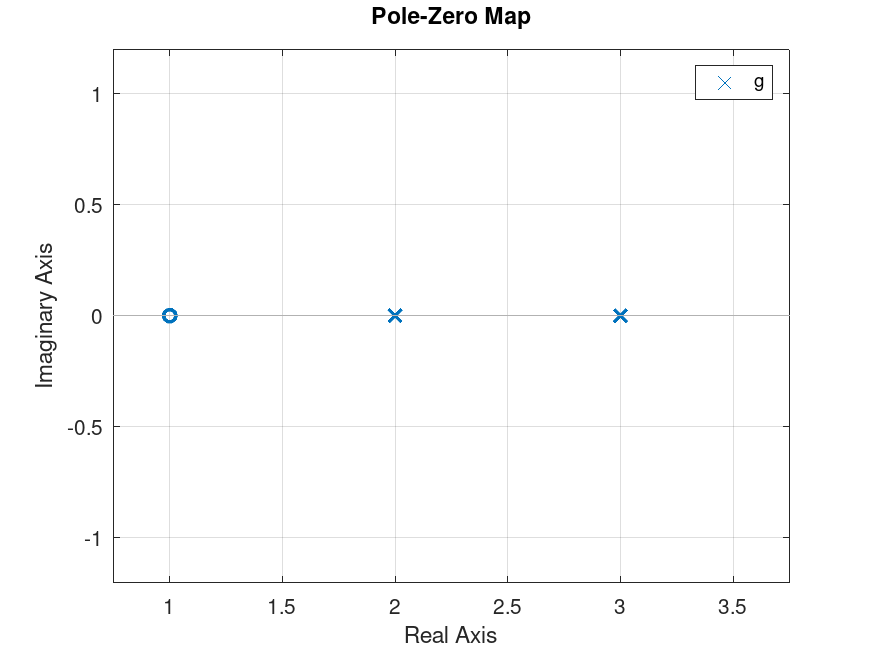
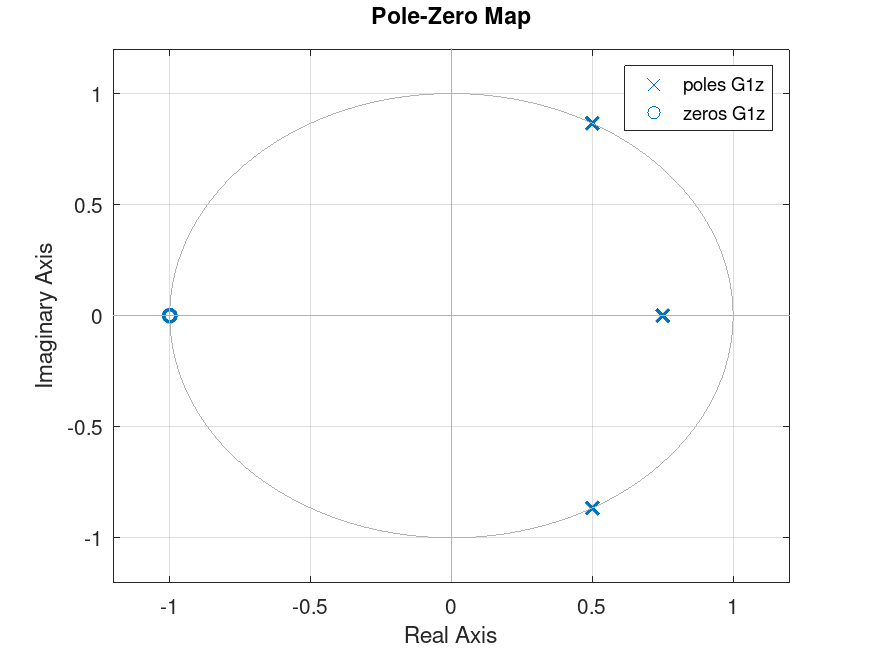
updated docs for version 4.0.1

diff --git a/docs/pzmap.html b/docs/pzmap.html
@@ -78,19 +78,21 @@
 </dl>
 <p> Plot the poles and zeros of an LTI system in the complex plane.
  If no output arguments are given, the result is plotted on the screen.
- Otherwise, the poles and zeros are computed and returned.
+ Otherwise, the poles and zeros are computed and returned. Note that
+ only one system is processed when output arguments are given.
 </p>
 <div class="ms-5">
 <p> <strong>Inputs</strong>
  </p><dl compact="compact">
-<dt> <var>sys</var></dt>
+<dt> <var>sys, sys1, ...</var></dt>
 </dl>
-<p> <acronym>LTI</acronym> model.
+<p> <acronym>LTI</acronym> model(s).
  </p></dd>
 <dt> <var>&rsquo;style&rsquo;</var></dt>
 </dl>
-<p> Line style and color, e.g. &rsquo;r&rsquo; for a solid red line or &rsquo;-.k&rsquo; for a dash-dotted
- black line.  See <code>help plot</code> for details.
+<p> Color, e.g. &rsquo;r&rsquo; for a red. See <code>help plot</code> for details.
+ Marker or line styles are ignored as poles and zeros have the
+ fixed marker types &rsquo;x&rsquo; and &rsquo;o&rsquo; repectively.
  </p></dd>
 </dl>
 
@@ -128,9 +130,9 @@
                     <td>&nbsp;</td>
                     <td><pre class="example">
 
- s = tf('s');
- g = (s-1)/(s-2)/(s-3);
- pzmap(g);
+ z = tf('z',1);
+ G1z = (z+1)/(z-0.75)/(z^2-1*z+1);
+ pzmap(G1z);
 
                     </pre></td></tr></tbody>
                   </table>
@@ -163,8 +165,9 @@
                     <td><pre class="example">
 
  s = tf('s');
- g = 1/(2*s^2+3*s+4);
- pzmap(g);
+ G1 = 1/(2*s^2+3*s+4);
+ G2 = (1-s)/(1+s)/(s^2+s+1);
+ pzmap(G1,G2);
 
                     </pre></td></tr></tbody>
                   </table>

diff --git a/docs/mktito.html b/docs/mktito.html
@@ -113,9 +113,9 @@
   K         norm
 
                 +--------+  
-        w -----&gt;|        |-----&gt; z
+   w = u1 -----&gt;|        |-----&gt; z = y1
                 |  P(s)  |
-        u +----&gt;|        |-----+ v
+   u = u2 +----&gt;|        |-----+ y = y2
           |     +--------+     |
           |                    |
           |     +--------+     |
@@ -123,7 +123,7 @@
                 +--------+
 
                 +--------+      
-        w -----&gt;|  N(s)  |-----&gt; z
+   w = u1 -----&gt;|  N(s)  |-----&gt; z = y1
                 +--------+
  </pre><pre class="example"> </pre></td></tr></table>
 

diff --git a/docs/doc_control.html b/docs/doc_control.html
@@ -83,6 +83,8 @@
 </dl>
 <p> Function names for which the documentation should be displayed.
  If no function name is given, the index of the documentation is shown.
+ If one of the function names is &rsquo;license&rsquo;, copyright and license
+ information are displayed.
  </p></dd>
 </dl>
 
@@ -104,7 +106,7 @@
 
 
 <p><strong>Source Code: </strong>
-  <a href="">doc_control</a>
+  <a href="https://github.com/gnu-octave/pkg-control/tree/main/inst/doc_control.m">doc_control</a>
 </div>
 
 

diff --git a/docs/index.html b/docs/index.html
@@ -61,7 +61,7 @@
             </div>
             <div class="col-sm-9 col-md-10">
               <h3 class="d-inline-block mr-2">control</h3>
-              <b>4.0.0&nbsp;2024-01-04</b>
+              <b>4.0.1&nbsp;2024-03-24</b>
               <p class="indent">
                 Control package for GNU Octave including system analysis and  control synthesis. The package uses routines of the SLICOT-Reference library.
               </p>
